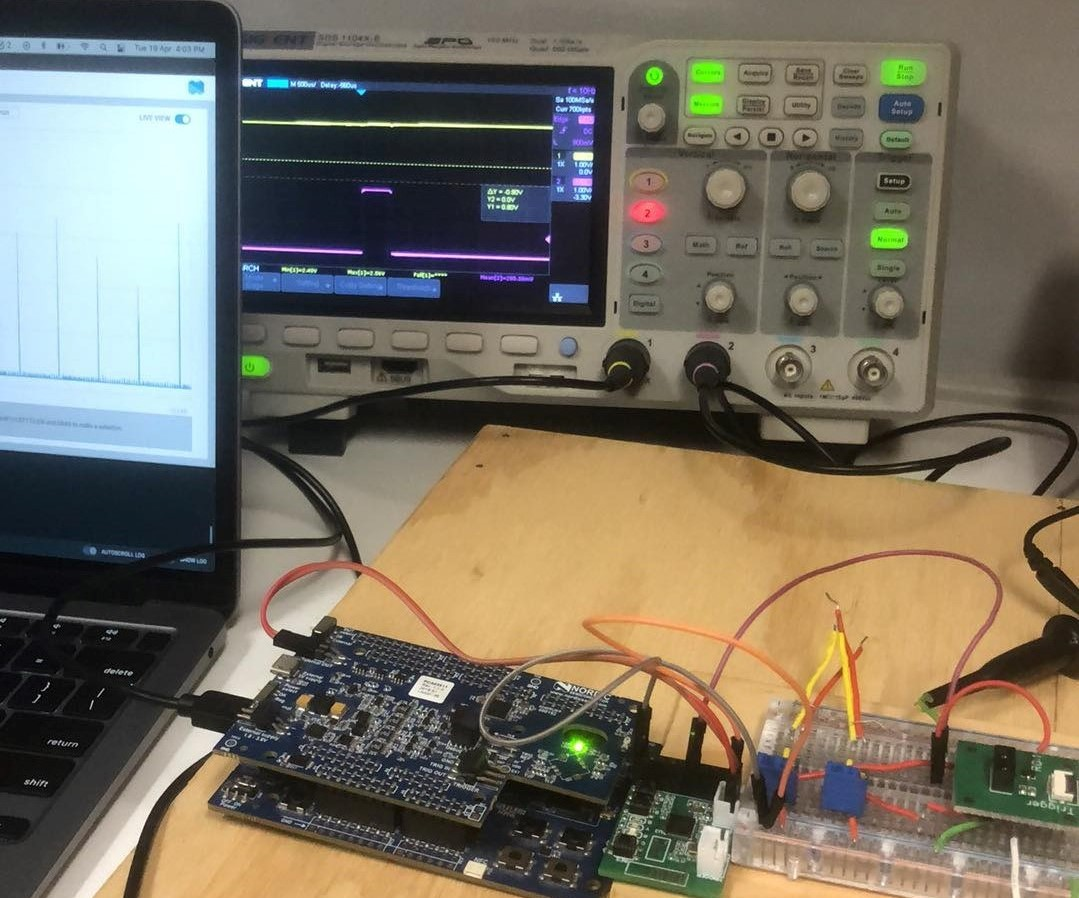
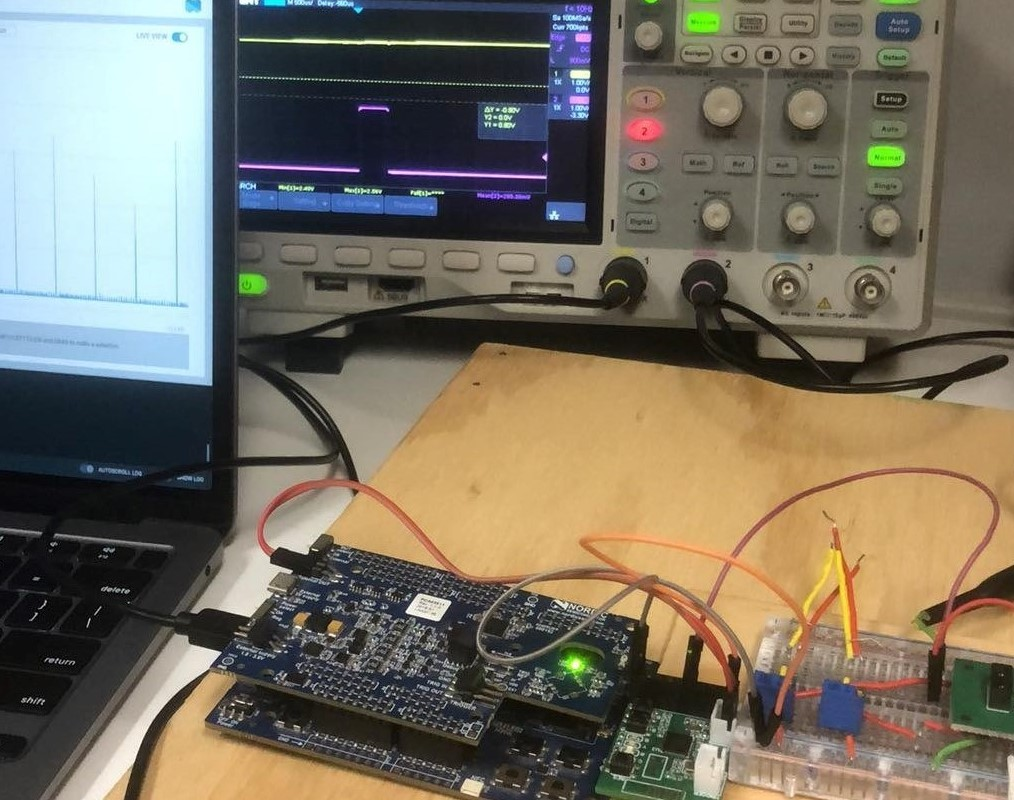
Gn Page edit

diff --git a/project-pages/goodnature.html b/project-pages/goodnature.html
@@ -41,8 +41,8 @@
       <div id="project-details">
         <div class="subheader-text">Project Details / Background</div>
         <div class="project-details-content">
-          <div class="body-text">Working with the team at <a href="https://goodnature.co.nz/">Goodnature</a> I developed a strong foundation in Product development.  This involved conceptualization, research, and refinement of hardware collaborating with Industrial and Mechanical faculty to develop the next generation of products for the ever changing market. Hardware and Firmware  was developed using  ESP and NRF chipsets to prototype and test PCBs. My workshop skills were honed as hardware was tested and integrated into the physical system. Learning reports and Engineering documentation was produced. </div>
-         
+          <div class="body-text">Working with the team at <a href="https://goodnature.co.nz/">Goodnature</a> I developed a strong foundation in Product development.  This involved conceptualization, research, and refinement of hardware collaborating with Industrial and Mechanical faculty to develop the next generation of products for the ever changing market. <br><br>
+             Hardware and Firmware  was developed using  ESP and NRF chipsets to prototype and test PCBs. My workshop skills were honed as hardware was tested and integrated into the physical system. Learning reports and Engineering documentation was produced. </div>
         </div>
       </div>
 
@@ -60,12 +60,12 @@
               <span class="image-caption"></span>
             </div>
             <div class="gallery-image-container half-width">
-              <img src="../assets/images/scope.jpg" class="gallery-image">
+              <img src="../assets/images/scope4.jpg" class="gallery-image">
               <span class="image-caption"></span>
             </div>
             <div class="gallery-image-container half-width">
-              <img src="../assets/images/velocityrig.gif" class="gallery-image">
-              <span class="image-caption">An example of a simple velocity test rig I built using a liner encoder</span>
+              <img src="../assets/images/velocityrig3.gif" class="gallery-image">
+              <span class="image-caption"></span>
             </div>
         </div>
       </div>
@@ -83,4 +83,3 @@
 
 	</body>
 </html>
-C:\Users\User\Documents\Work\Job Seek Canada\Portfolio\Portfolio\assets\images
